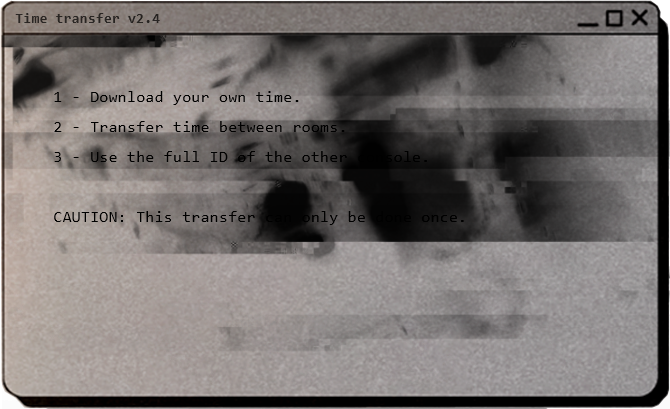
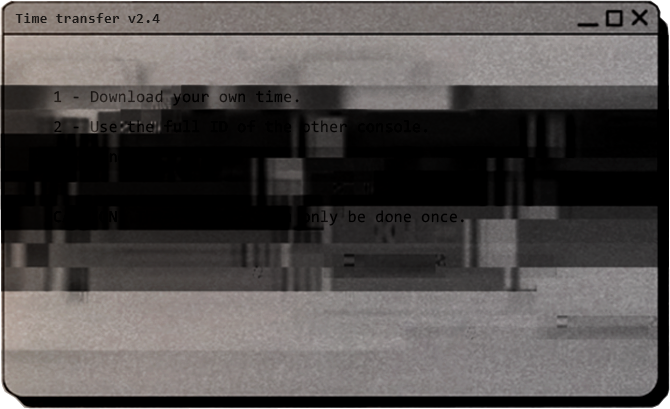
Game Data LS - Transfer Time Window Done

diff --git a/src/pages/Room/Console/Actions/Transfer/Transfer.js b/src/pages/Room/Console/Actions/Transfer/Transfer.js
@@ -5,59 +5,86 @@ const Transfer = () => {
   // Parent
   let parent = document.querySelector('#time-transfer');
 
-  // Container
-  let container = document.createElement('div');
-  container.id = 'transfer-panel';
+  if (!document.querySelector('#transfer-panel')) {
+    // Container
+    let container = document.createElement('div');
+    container.id = 'transfer-panel';
 
-  parent.appendChild(container);
+    parent.appendChild(container);
 
-  // Button
-  const button = document.createElement('button');
-  button.textContent = 'Download';
+    // Button
+    const button = document.createElement('button');
+    button.textContent = 'Download';
 
-  container.appendChild(button);
+    container.appendChild(button);
 
-  button.addEventListener('click', () => {
-    // Remove
-    button.remove();
+    button.addEventListener('click', () => {
+      // Remove
+      button.remove();
 
-    // Downloading Bar
-    const bar = document.createElement('div');
-    container.appendChild(bar);
+      // Downloading Bar
+      const bar = document.createElement('div');
+      container.appendChild(bar);
 
-    let blocks = 23;
+      let blocks = 23;
 
-    let download = setInterval(() => {
-      let bar = document.querySelector('#transfer-panel div');
+      let download = setInterval(() => {
+        let bar = document.querySelector('#transfer-panel div');
 
-      let block = document.createElement('div');
-      block.className = 'downloading-block';
+        let block = document.createElement('div');
+        block.className = 'downloading-block';
 
-      bar.appendChild(block);
-      blocks--;
+        bar.appendChild(block);
+        blocks--;
 
-      if (Math.floor(blocks) === 0) {
-        // Remove
-        clearInterval(download);
-        bar.remove();
+        if (blocks === 0) {
+          // Remove
+          clearInterval(download);
+          bar.remove();
 
-        const input = document.createElement('input');
-        input.type = 'text';
-        input.id = 'user-time-receiver';
+          // Input
+          const input = document.createElement('input');
+          input.type = 'text';
+          input.id = 'user-time-receiver';
+          input.maxLength = 11;
 
-        input.addEventListener('keydown', (e) => e.key === 'Enter' && sendTime());
+          input.addEventListener('keydown', (e) => e.key === 'Enter' && sendTime(input));
 
-        document.querySelector('#transfer-panel').appendChild(input);
-      }
-    }, 2000);
-  });
+          document.querySelector('#transfer-panel').appendChild(input);
+        }
+      }, 50);
+    });
+  }
 };
 
-function sendTime() {
-  // console.log('Here');
-  // let input = document.querySelector('#user-time-receiver');
-  // sendRequest('shareTime', null, null, null, input.value);
-  // input.value = '';
+function sendTime(input) {
+  let window = document.querySelector('#time-transfer');
+  let IDS = JSON.parse(localStorage.getItem('data')).players.map((player) => player.id.toUpperCase());
+
+  if (!IDS.includes(input.value.toUpperCase()) && input.value.length === 11) {
+    transferInputError('NO CONSOLE FOUND');
+  } else if (input.value.length < 11) {
+    transferInputError('INVALID SYNTAX');
+  } else {
+    // Send
+    sendRequest('shareTime', null, null, null, input.value);
+
+    // Reset
+    window.style.background = `url('src/assets/images/pictures/console/windows/time-transferred.png') center/contain no-repeat`;
+    window.style.animation = 'glitch 0.3s forwards';
+    input.remove();
+  }
+}
+
+function transferInputError(text) {
+  let panel = document.querySelector('#transfer-panel');
+
+  const error = document.createElement('p');
+  error.textContent = text;
+
+  panel.appendChild(error);
+
+  setTimeout(() => error.remove(), 1500);
 }
 
 export default Transfer;

diff --git a/src/pages/Room/Console/Actions/Transfer/Transfer.css b/src/pages/Room/Console/Actions/Transfer/Transfer.css
@@ -1,48 +1,59 @@
 #transfer-panel {
   position: absolute;
-  bottom: 15px;
-  /* left: 50%; */
-  /* transform: translateX(-50%); */
+  bottom: 8px;
   left: -3px;
   padding: 10px 20px;
   width: 100%;
   height: 60px;
-  /* border: 1px solid red; */
   display: flex;
   justify-content: center;
   align-items: center;
   gap: 1.625rem;
-  /* z-index: 333333; */
 }
 
 #transfer-panel button {
-  /* display: none; */
   height: 30px;
   padding: 0px 20px;
   color: black;
+  font-weight: 700;
   border: 2px outset black;
   background-color: transparent;
-  /* border: 1px solid red; */
+  /* pointer-events: none;
+  opacity: 0.6; */
 }
 
 #transfer-panel > div {
   padding: 1px;
-  /* width: 97%; */
   width: 100%;
-  height: 36px;
+  height: 31px;
   display: flex;
   gap: 0.125rem;
-  /* height: fit-content; */
-  border: 2px inset black;
+  border: 2px inset rgba(0, 0, 0, 0.5);
 }
 
 .downloading-block {
   width: 14.19px;
-  height: 30px;
-  background-color: rgba(0, 0, 0, 0.836);
+  height: 25px;
+  background-color: rgba(0, 0, 0, 0.911);
 }
 
 #transfer-panel input {
-  border: 1px solid green;
-  /* display: none; */
+  margin-top: 5px;
+  width: 50%;
+  height: 35px;
+  font-size: 16px;
+  font-weight: 700;
+  color: rgba(0, 0, 0, 0.87);
+  background-color: rgba(255, 255, 255, 0.322);
+  border: 2px inset rgba(0, 0, 0, 0.438);
+  border-radius: 5px;
+}
+
+#transfer-panel p {
+  position: absolute;
+  bottom: 5px;
+  color: rgba(0, 0, 0, 0.87);
+  font-size: 9px;
+  font-weight: 800;
+  z-index: 88888888;
 }

diff --git a/src/pages/Room/Console/Console.css b/src/pages/Room/Console/Console.css
@@ -61,19 +61,25 @@
 .panel {
   position: absolute;
   left: 50%;
-  transform: translateX(-56%);
-  bottom: 14px;
-  width: 43%;
-  height: 180px;
+  transform: translateX(-60%) rotate(1deg);
+  bottom: 63px;
+  /* padding: 0px 20px; */
+  height: fit-content;
+  /* height: 180px; */
   display: flex;
   justify-content: center;
   align-items: center;
-  gap: 5.525rem;
+  gap: 3.125rem;
+  /* border: 1px solid red; */
 }
 
 .panel img {
   width: 43px;
   opacity: 0.4;
+}
+
+.panel img:nth-child(1) {
+  margin-top: 7px;
 }
 
 .panel img:nth-child(2) {
@@ -88,7 +94,8 @@
 
 .panel img:nth-child(3),
 .panel img:nth-child(4) {
-  width: 35px;
+  width: 33px;
+  margin-top: px;
 }
 
 .panel img:hover {
@@ -113,6 +120,19 @@
   cursor: pointer;
   opacity: 1;
 }
+
+/* ! */
+
+.access {
+  opacity: 1;
+  pointer-events: all;
+}
+
+.block {
+  pointer-events: none;
+}
+
+/* ! */
 
 /* Windows */
 

diff --git a/src/pages/lobby/utils/Hub/Hub.js b/src/pages/lobby/utils/Hub/Hub.js
@@ -59,7 +59,7 @@ const PlayersHub = (code, username, party) => {
     ws.onmessage = function (event) {
       const current = JSON.parse(event.data);
 
-      // console.log(current);
+      console.log(current);
 
       updateReadyState(current);
       allPlayersReady(current, nickname.textContent.toLowerCase());
@@ -84,6 +84,11 @@ function allPlayersReady(data, username) {
   let players = Array.from(document.querySelectorAll('.players img'));
   let confirm = new Audio('src/assets/audio/sounds/lobby/Confirm-game.mp3');
   let ready = players.every((player) => player.style.opacity === '0.9');
+
+  // // ! Local Test ! //
+  // storeGameData(data, username);
+  // Room();
+  // // ! Local Test ! //
 
   ready && storeGameData(data, username);
   ready && preIntro(confirm);

diff --git a/src/localStorage/LS.js b/src/localStorage/LS.js
@@ -18,9 +18,13 @@ export function storeGameData(data, player) {
 
 export function getLocalID() {
   let data = JSON.parse(localStorage.getItem('data'));
-  let user = data && data.username;
 
-  return data && data.players.find((player) => player.name === user).id;
+  if (data) {
+    let user = data.username;
+    let player = data.players.find((player) => player.name.toLowerCase() === user);
+
+    return player.id.toUpperCase();
+  }
 }
 
 // //! CLICK COUNTER ON SCREEN

diff --git a/src/pages/Room/Console/Console.js b/src/pages/Room/Console/Console.js
@@ -33,11 +33,10 @@ const Terminal = (parent) => {
   });
 
   // Elements
-
   // > ID
   const id = document.createElement('h3');
   id.className = 'id';
-  id.textContent = getLocalID() ?? 'NOMANFACE';
+  id.textContent = getLocalID() ?? '#XXXX-XX-DEV';
 
   screen.appendChild(id);
 
